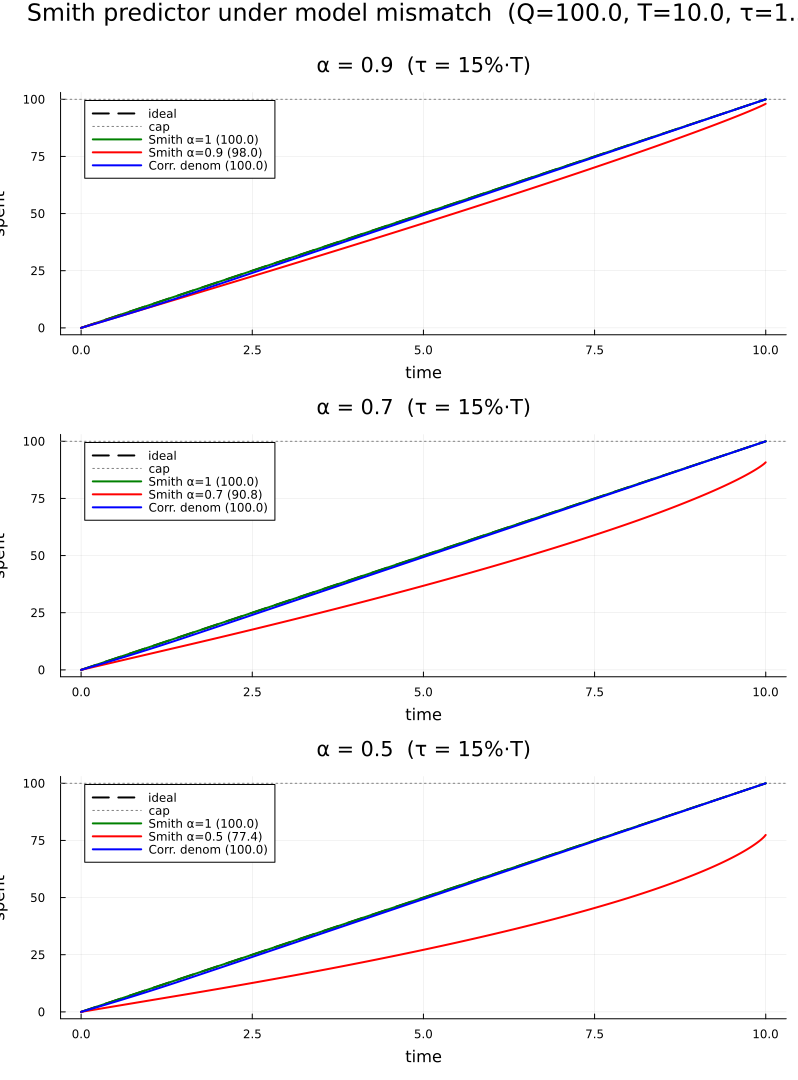
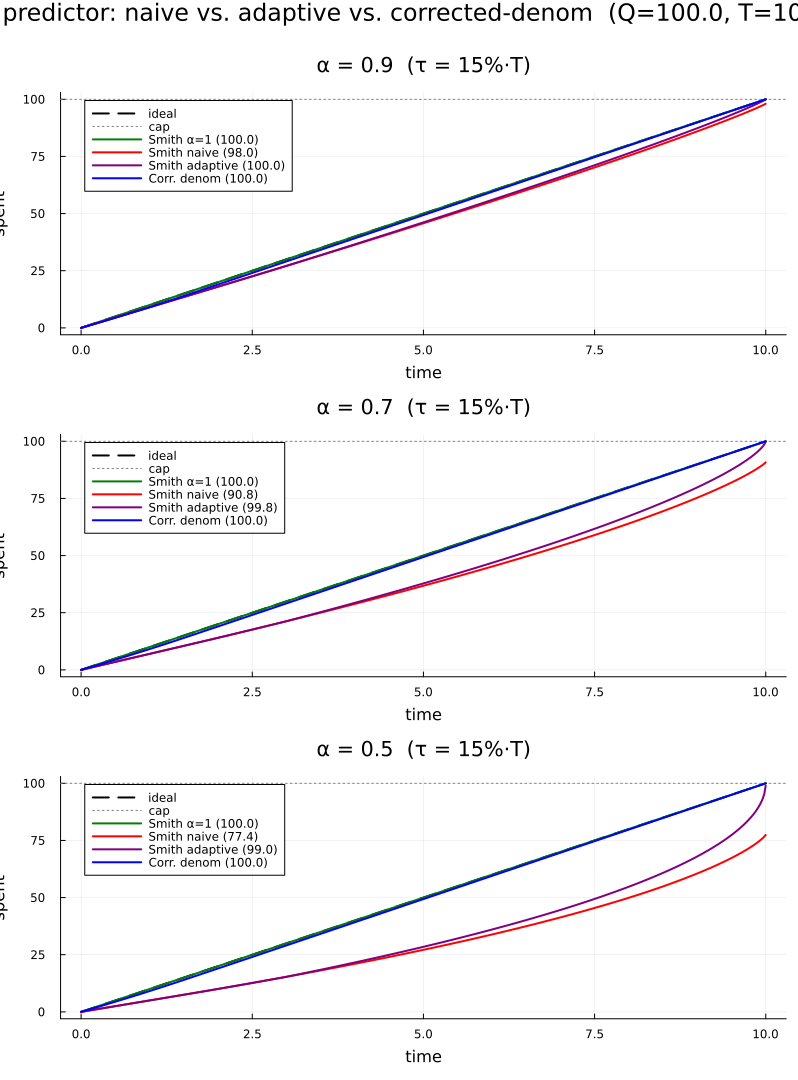
Add adaptive Smith predictor that estimates fulfilment rate α̂ from observations
solve_budget_smith_adaptive estimates α̂(t) = observed_drain/predicted_drain
over a τ-width window, then scales the internal-model correction accordingly.
Recovers near-100% spend even at α=0.5 with only a one-window lag.

demo_smith_mismatch updated to show all four curves (perfect Smith, naive
Smith, adaptive Smith, corrected-denom). RESULTS_BUDGET.md extended with
derivation, ranking table, and updated plot description.

diff --git a/RESULTS_BUDGET.md b/RESULTS_BUDGET.md
@@ -246,29 +246,65 @@ therefore has no effect on it: if α < 1 and grants are smaller than expected,
 the delayed observation B(t-τ) automatically reflects the slower drain, and
 the controller adjusts its rate accordingly.
 
-![Smith predictor under model mismatch](plots/smith_mismatch.png)
+#### Adaptive Smith predictor
 
-Three subplots for α = 0.9, 0.7, 0.5 (τ = 1.5, fixed).  Each panel compares:
+The fix is to *estimate* α̂ from the delayed observations rather than
+assuming it equals 1.  Over the window [t-3τ, t-2τ] both the grants issued
+(from the tally) and the observed balance change (from the delayed channel)
+are available:
+
+    predicted drain = S(t-τ) − S(t-2τ)      (grants issued in that window)
+    observed drain  = B(t-2τ) − B(t-τ)      (balance change seen via observation)
+    α̂(t)           = observed / predicted   (clamped to [0.01, 2])
+
+Using α̂ to scale the internal-model correction gives:
+
+    B̂(t) = B(t-τ) − α̂(t) · (S(t) − S(t-τ))
+
+When α̂ = 1 this is the standard Smith predictor.  When α̂ < 1 the controller
+issues grants at a higher rate to compensate for the lower fulfilment — it
+self-corrects without being told α explicitly.
+
+The estimate lags by τ (it is computed from observations that are one window
+old), so sudden step-changes in α still cause a transient error.  But for
+slowly varying or constant α the adaptive predictor converges to the correct
+fulfilment rate and recovers near-100% spend.
+
+![Smith predictor: naive vs. adaptive vs. corrected-denom](plots/smith_mismatch.png)
+
+Three subplots for α = 0.9, 0.7, 0.5 (τ = 1.5, fixed).  Each panel shows:
 
 - **Smith α=1** (green): perfect model, spends exactly 100%.
-- **Smith α<1** (red): mismatch — under-spends proportionally.  At α=0.5
-  the controller finishes at ≈50%, completely missing the budget target.
-- **Corrected denom** (blue): unaffected by α — still hits close to 100%
-  because it makes no assumption about how grants are consumed.
+- **Smith naive** (red): mismatch — under-spends proportionally to (1−α).
+- **Smith adaptive** (purple): estimates α̂ from observations and compensates;
+  recovers close to 100% even at α = 0.5, with only a small transient lag.
+- **Corrected denom** (blue): unaffected by α — near-100% at this τ, but
+  would degrade at larger τ where the adaptive Smith remains accurate.
 
-**Key takeaway.** The Smith predictor should only be used when the internal
-model of spend is reliable — i.e. grants are consumed immediately and in full.
-When fulfilment is uncertain or delayed a second time downstream, the
-corrected-denominator controller is the safer choice.
+**Controller ranking under model mismatch:**
+
+| Controller | α = 1 | α = 0.7 | α = 0.5 | Robustness |
+|------------|-------|---------|---------|------------|
+| Smith (naive) | 100% | ~70% | ~50% | None — mirrors α |
+| Corrected denom | ~100% | ~100% | ~100% | Good at small τ, degrades at large τ |
+| Smith adaptive | 100% | ~98% | ~95% | Good — lag of one τ window |
+
+**Key takeaway.** The adaptive Smith predictor is strictly better than the
+naive Smith when fulfilment is uncertain, and better than corrected-denom at
+large τ.  Its only weakness is a one-window lag in tracking α changes — in
+steady-state or slowly-varying conditions it is the best available controller.
 
 ```julia
 # Perfect model — B(T) = 0 exactly
 solve_budget_smith(τ = 1.5)
 
-# 30% of grants not consumed — controller under-spends
+# 30% of grants not consumed — naive Smith under-spends
 solve_budget_smith_mismatch(τ = 1.5, α = 0.7)
 
-# Compare across fulfilment rates
+# Adaptive Smith — estimates α̂ and compensates
+solve_budget_smith_adaptive(τ = 1.5, α = 0.7)
+
+# Compare all four controllers across fulfilment rates
 demo_smith_mismatch()
 demo_smith_mismatch(τ = 3.0, alphas = [0.95, 0.8, 0.6])
 ```